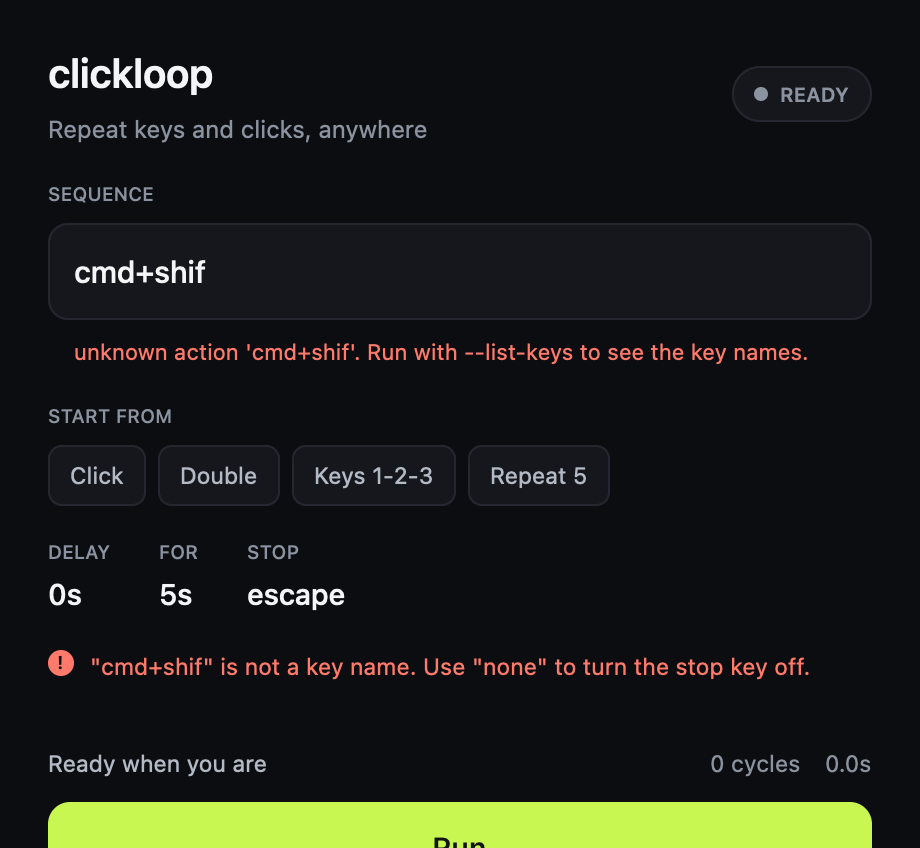
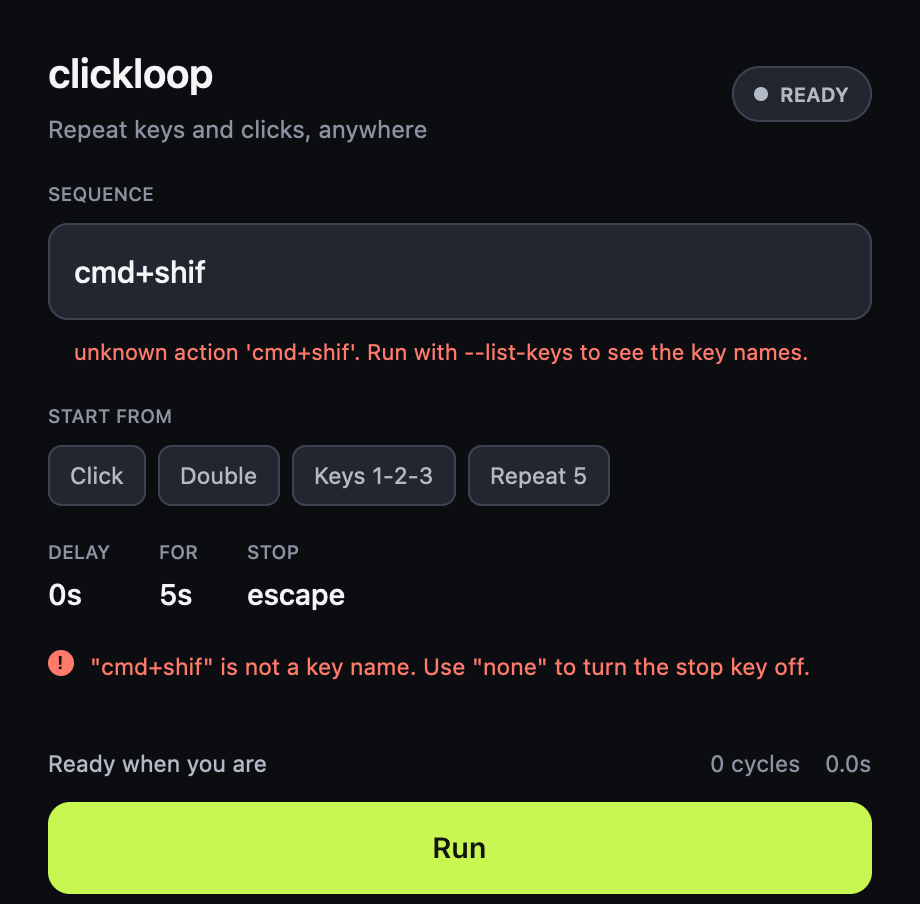
Fix the window's clipped button and its unreadable surfaces
A design review of the rendered screenshot found the Run button flush with the
bottom edge: the window height was 28 logical pixels short of the padding the
layout asks for. It is 452 now, and the button keeps 20.

It also found the field and chips at 1.08:1 against the page, far below the 3:1
a surface needs to read as one. The card is lifted to #22262e with a #3d4351
border, taking the card to 1.28:1 and the labels to 6.28:1, both measured on the
render rather than estimated.

Screenshots regenerated from the real view.

diff --git a/gui/src/theme.rs b/gui/src/theme.rs
@@ -27,9 +27,9 @@ impl Theme {
     pub fn dark() -> Self {
         Self {
             bg: rgb(0x0c0d10),
-            panel: rgb(0x15171c),
-            panel_hover: rgb(0x1c1f26),
-            border: rgb(0x24272f),
+            panel: rgb(0x22262e),
+            panel_hover: rgb(0x2e333d),
+            border: rgb(0x3d4351),
             border_strong: rgb(0x333843),
             text: rgb(0xf4f5f7),
             text_muted: rgb(0xb3bac6),
@@ -60,7 +60,7 @@ pub const RADIUS_LG: Pixels = px(16.0);
 
 /// The window size the layout is designed for.
 pub const WINDOW_WIDTH: f32 = 460.0;
-pub const WINDOW_HEIGHT: f32 = 424.0;
+pub const WINDOW_HEIGHT: f32 = 452.0;
 
 /// The same colour with a different opacity.
 pub fn with_alpha(color: Rgba, alpha: f32) -> Rgba {

diff --git a/gui/src/view.rs b/gui/src/view.rs
@@ -230,7 +230,7 @@ fn header(theme: &Theme, phase: Phase) -> impl IntoElement {
         Phase::Running => (theme.accent, theme.accent),
         Phase::Counting => (theme.text_muted, theme.text_muted),
         Phase::Stopped => (theme.danger, theme.text_muted),
-        Phase::Idle => (theme.text_faint, theme.text_faint),
+        Phase::Idle => (theme.text_muted, theme.text_muted),
     };
     div()
         .flex()

diff --git a/README.md b/README.md
@@ -116,6 +116,10 @@ one button. The stop key still works while it runs.
 It is built with [GPUI Community Edition](https://github.com/gpui-ce/gpui-ce),
 vendored under `gui/gpui-ce` so the build needs no network beyond crates.io.
 
+The screenshots above are rendered by `gui/examples/screenshot.rs`, which opens
+an off-screen window on the real platform and paints the app's own view, so they
+cannot drift from what the window shows.
+
 ```console
 $ cd gui && cargo build --release    # target/release/clickloop-gui
 ```
